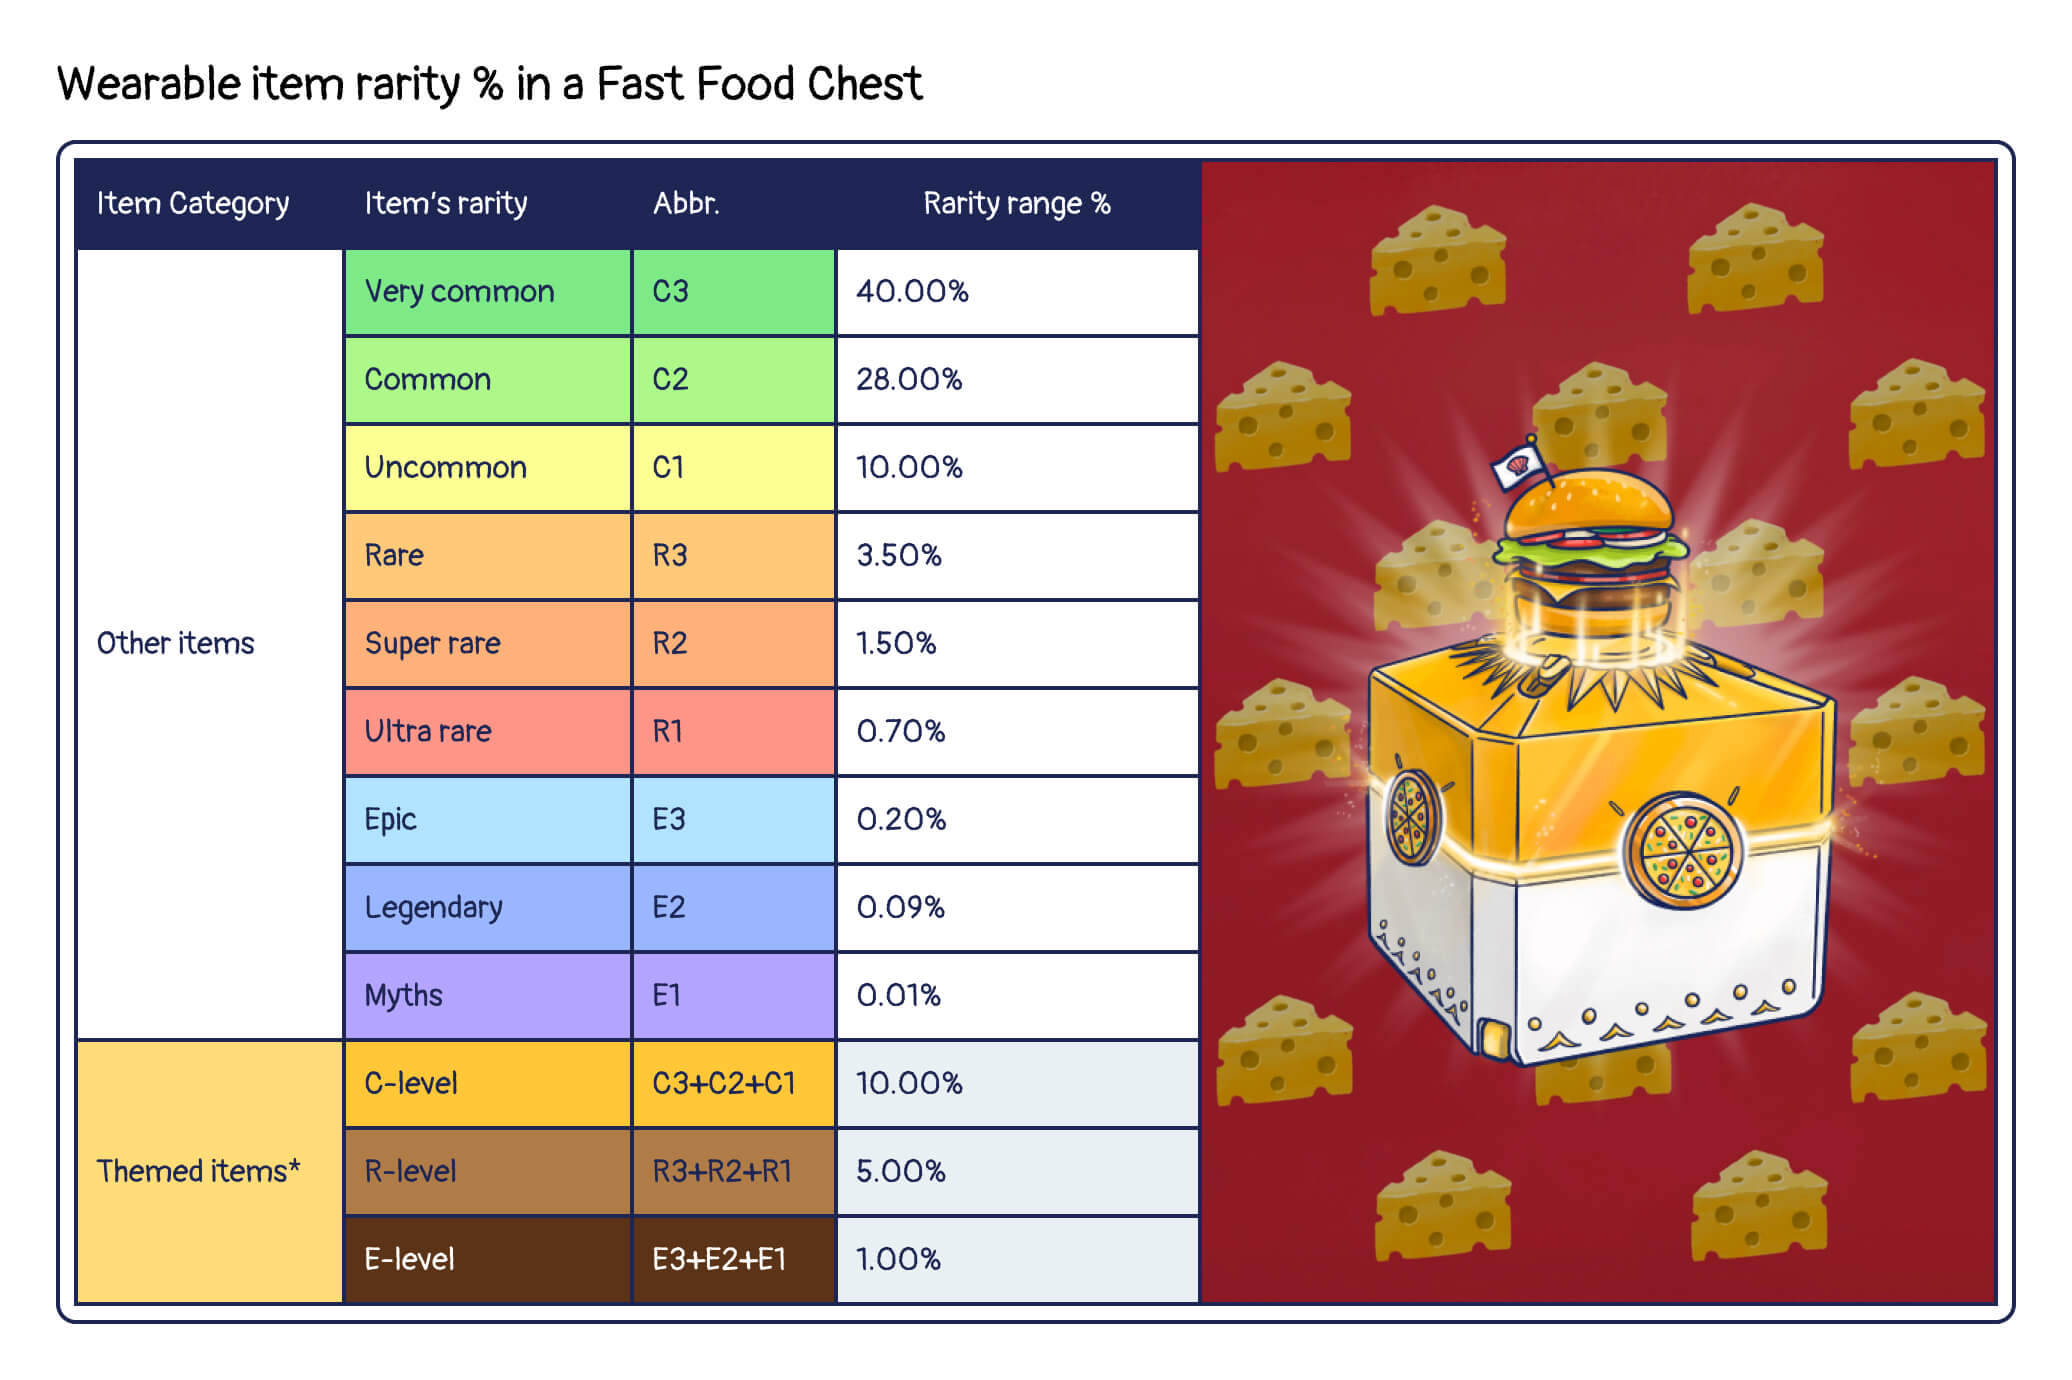
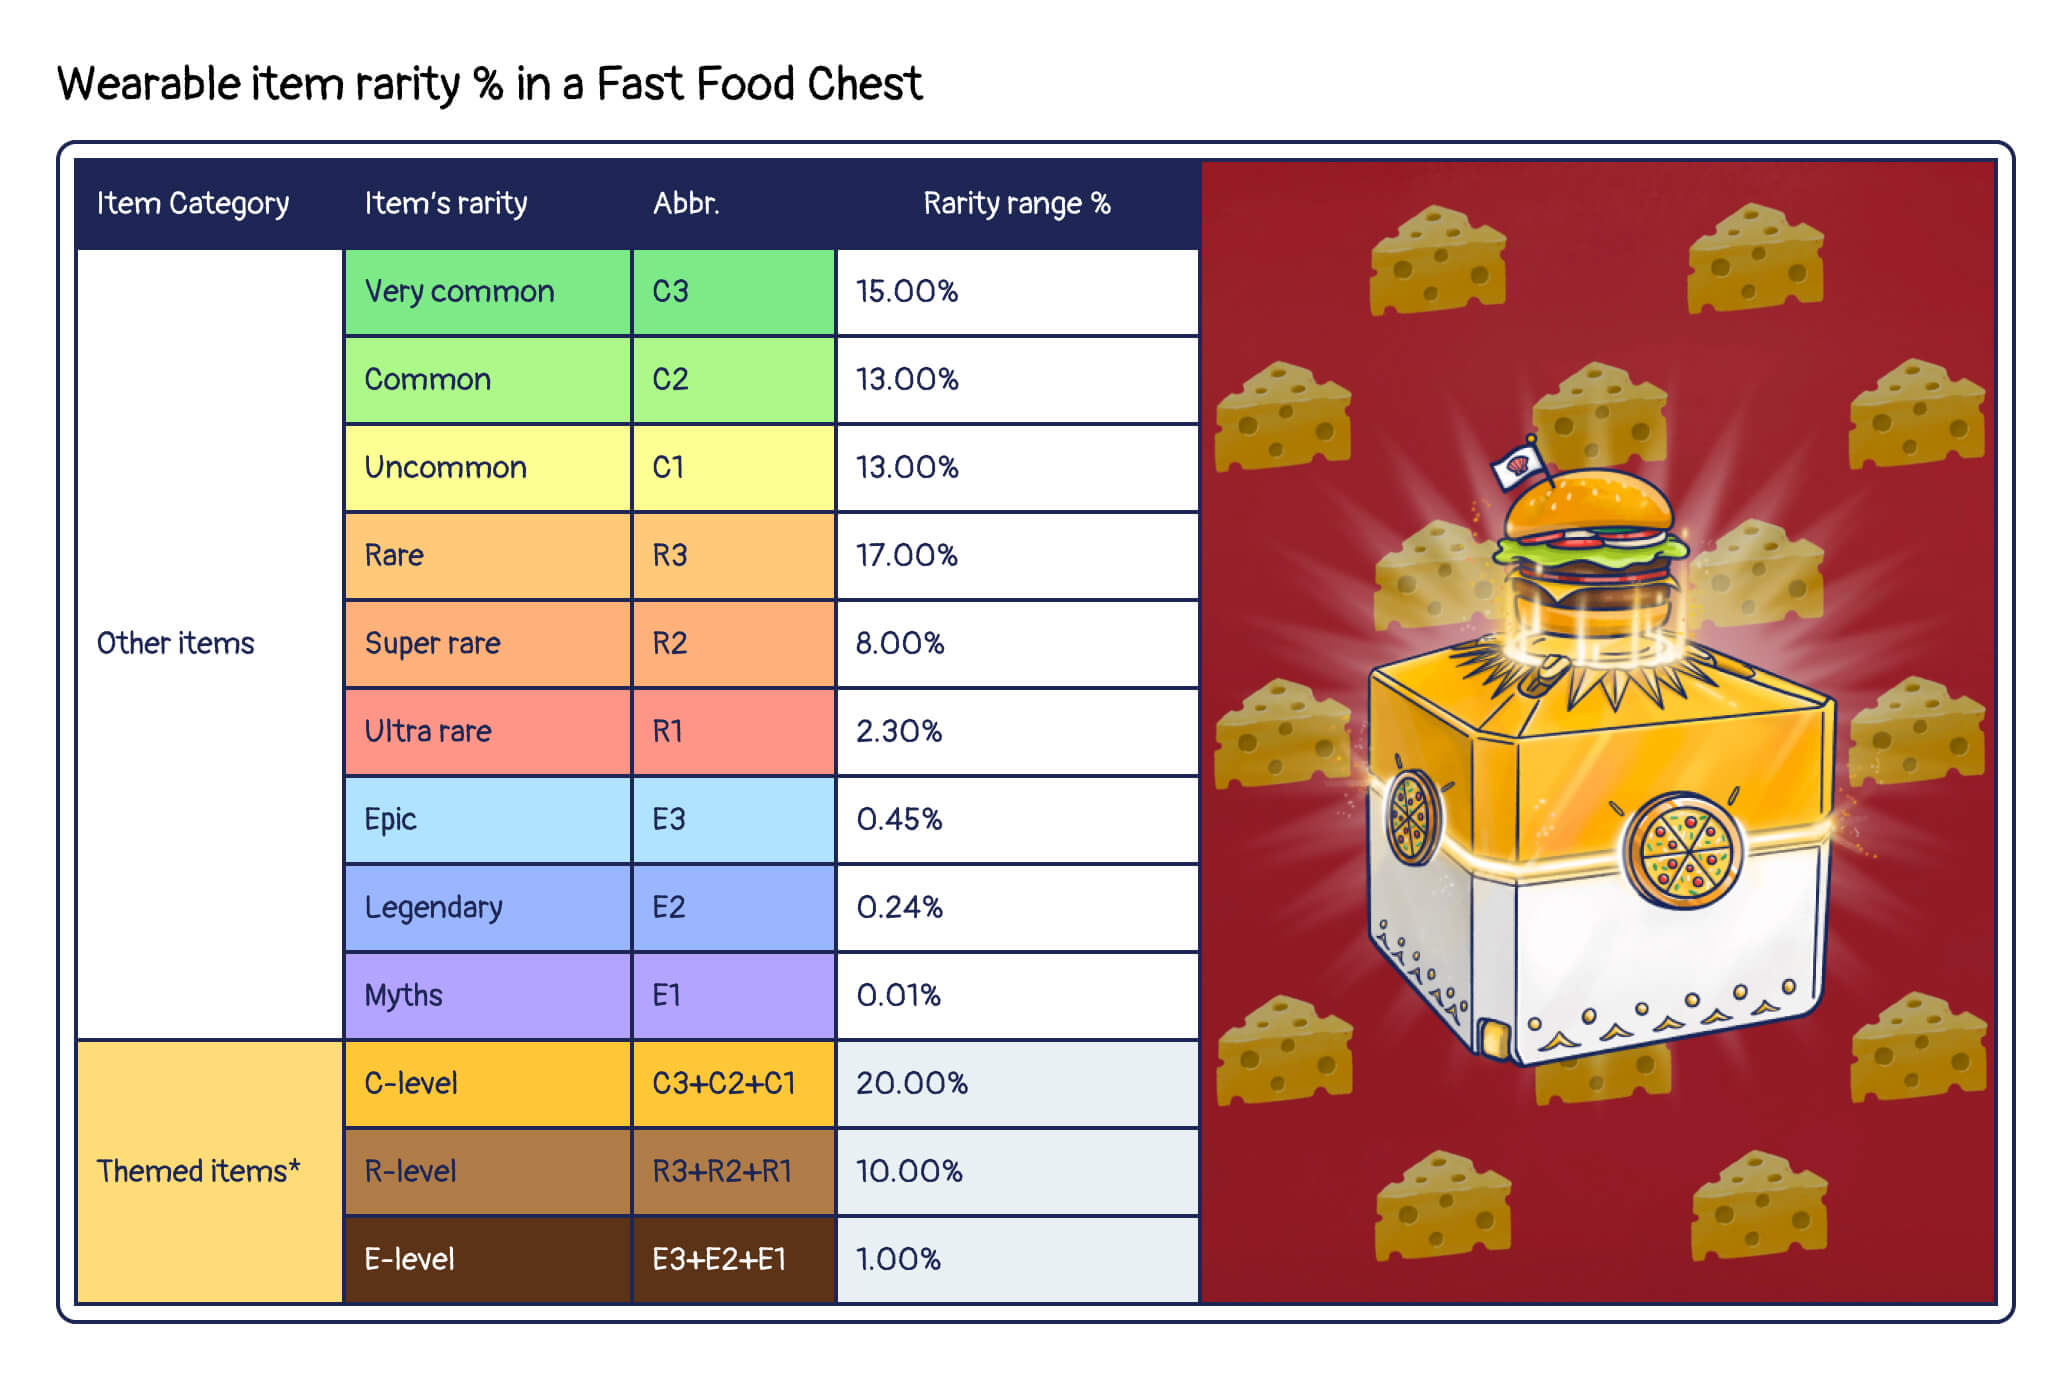
update autumn sale info

diff --git a/docs/ottopia/gameplay/foundry.md b/docs/ottopia/gameplay/foundry.md
@@ -26,6 +26,26 @@ The $FISH token can only be used within the Ottopia website. This token will be 
 
 ## Seasonal recipe  <a href="#seasonal-recipe" id="seasonal-recipe"></a>
 
+### Happy Clamsgiving!
+
+![Clamsgiving](img/clamsgiving_forge.jpg)
+
+**Clamsgiving Cornucopia**
+
+Similar to Demeter, the goddess of harvest, Ottopians have a cornucopia of their own. At Clamsgiving, Ottopians decorate their cornucopia with fruits and autumn-themed elements; and of course, a big bowl of clams!
+
+It has been said that having this on hand will give you a major advantage in the upcoming competition. Get one for yourself!
+
+**Clamsgiving Turkey Dish**
+
+This dish is one of Ottopia's most notable dishes. At Clamsgiving, Ottopians prepare this turkey dish and share this meal with the family. The specialty is clams. During the roasting process with turkey at high heat, the arona spreads out, doubling the flavor of the clam. 
+
+It has been said that having this on hand will give you a major advantage in the upcoming competition. Make this tasty dish now!
+
+![Clamsgiving recipe](img/clamsgiving_recipes.jpg)
+
+Share the joy and blessing in this big and warm Ottopia family!
+
 ### Let's get some Fast Food! (Ended)
 
 ![Fast Food](img/fast-food_forge_EN.jpg)

diff --git a/docs/ottopia/gameplay/store.md b/docs/ottopia/gameplay/store.md
@@ -30,6 +30,20 @@ Here is the formula used to show the probability of finding different rarity equ
 ## Special Chest <a href="#shell-chest" id="special-chest"></a>
 Ottopia occasionally has themed chest sales with gorgeous exclusive items.
 
+### Autumn Themed Chest
+
+![Autumn Chest Sale](img/autumn_sale.jpeg)
+
+As part of Clamsgiving celebrations, we are offering our Autumn Themed Chest, which contains hundreds of wearable items, with a huge possibility of finding the Autumn themed items and all ingredients from the Clamsgiving recipes!
+
+In addition to that, the mythical items from one of the beloved deities, Demeter - goddess of the harvest, are available to be found in this chest!
+
+Themed sale duration: November 21st, 0:00:00 ~ November 24th, 0:00:00 (UTC+0)
+
+Here is the formula used to show the probability of finding different rarity equipment in a Autumn Themed Chest.
+
+![Autumn](img/autumn_chest.jpg)
+
 ### Fast Food Chest (Ended)
 
 ![Fast Food Chest Sale](img/fast_food.jpeg)
